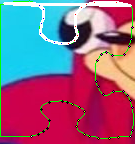
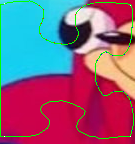
ajout seconde méthode

diff --git a/findangles.py b/findangles.py
@@ -7,7 +7,6 @@ import os
 
 def distpp(p1, p2):
     '''Méthode rendant la distance entre les deux points entrés en paramètres'''
-    #return (p1[0] - p2[0]) * (p1[0] - p2[0]) + (p1[1] - p2[1]) * (p1[1] - p2[1])
     return math.hypot(p2[0] - p1[0], p2[1] - p1[1])
 
 
@@ -21,11 +20,12 @@ def findangle(datas, w, h, qdens):
     #Variables du second test
     atangle = 0
     # il est possible de rajouter facilement un point de contrôle supplémentaire.
-    angle1 = [c1, [datas[0], distpp(c1, datas[0])], [datas[0], distpp(c1, datas[0])]]
-    angle2 = [c2, [datas[0], distpp(c2, datas[0])], [datas[0], distpp(c2, datas[0])]]
-    angle3 = [c3, [datas[0], distpp(c3, datas[0])], [datas[0], distpp(c3, datas[0])]]
-    angle4 = [c4, [datas[0], distpp(c4, datas[0])], [datas[0], distpp(c4, datas[0])]]
+    angle1 = [c1, [datas[0], distpp(c1, datas[0])], [datas[0], distpp(c1, datas[0])], [datas[0], distpp(c1, datas[0])]]
+    angle2 = [c2, [datas[0], distpp(c2, datas[0])], [datas[0], distpp(c2, datas[0])], [datas[0], distpp(c2, datas[0])]]
+    angle3 = [c3, [datas[0], distpp(c3, datas[0])], [datas[0], distpp(c3, datas[0])], [datas[0], distpp(c3, datas[0])]]
+    angle4 = [c4, [datas[0], distpp(c4, datas[0])], [datas[0], distpp(c4, datas[0])], [datas[0], distpp(c4, datas[0])]]
     angletest = [angle1, angle2, angle3, angle4]
+    #recherche des points les plus proches des coins de l'image
     for point in datas[1:]:
         for i in angletest:
             temp = distpp(point, i[0])
@@ -35,11 +35,16 @@ def findangle(datas, w, h, qdens):
                 i[1][1] = temp
                 i[1][0] = point
             elif i[2][1] > temp:
+                i[3][1] = i[2][1]
+                i[3][0] = i[2][0]
                 i[2][1] = temp
                 i[2][0] = point
-
+            elif i[3][1] > temp:
+                i[3][1] = temp
+                i[3][0] = point
     for i in angletest:
         angles.append(i[1][0])
+    #vérification de la présence du point dans le cadran
     for d in qdens:
         if d < 1:
             if atangle == 0:
@@ -51,26 +56,109 @@ def findangle(datas, w, h, qdens):
             elif atangle == 3:
                 angles[atangle] = [0, h - 1]
         atangle += 1
+
     return angles
 
 
-''' Tentative d'amélioration de la recherche d'angle
-def checkangles(angles, ):
-    for d in qdens:
-        if d < 1:
-            if i == 0:
-                angles[i] = [0, 0]
-            elif i == 1:
-                angles[i] = [width - 1, 0]
-            elif i == 2:
-                angles[i] = [width - 1, height - 1]
-            elif i == 3:
-                angles[i] = [0, height - 1]
-        i += 1
+def verifangle(angles, qdens, q1, q2, q3, q4):
+    '''Méthode de correction dea angles'''
+    sides = [0, 0, 0, 0]
+    modif = [0, 0, 0, 0]
+    for i in range(4):
+        inext = (i+1)%4
+        if i % 2 == 0:
+            d = 1
+            if angles[inext][d]-10 > angles[i][d] or angles[inext][d]+10 < angles[i][d]:
+                sides[i] += 1
+        else:
+            d = 0
+            if angles[inext][d]-10 > angles[i][d] or angles[inext][d]+10 < angles[i][d]:
+                sides[i] += 1
+    for i in range(4):
+        p = i - 1
+        n = (i + 1) % 4
+        if i == 0:
+            if sides[i] > 0:
+                y = min(angles[i][1], angles[n][1])
+                if sides[p] > 0:
+                    x = min(angles[i][0], angles[p][0])
+                    angles[i] = [x, y]
+                    modif[i] = 1
+                else:
+                    x = angles[i][0]
+                    angles[i] = [x, y]
+                    modif[i] = 1
+            else:
+                y = angles[i][1]
+                if sides[p]>0:
+                    x = min(angles[i][0], angles[p][0])
+                    angles[i] = [x, y]
+                    modif[i] = 1
+        elif i == 1:
+            if sides[i] > 0:
+                x = max(angles[i][0], angles[n][0])
+                if sides[p] > 0:
+                    y = min(angles[i][1], angles[p][1])
+                    angles[i] = [x, y]
+                    modif[i] = 1
+                else:
+                    y = angles[i][1]
+                    angles[i] = [x, y]
+                    modif[i] = 1
+            else:
+                x = angles[i][0]
+                if sides[p] > 0:
+                    y = min(angles[i][1], angles[p][1])
+                    angles[i] = [x, y]
+                    modif[i] = 1
+        elif i == 2:
+            if sides[i] > 0:
+                y = max(angles[i][1], angles[n][1])
+                if sides[p] > 0:
+                    x = max(angles[i][0], angles[p][0])
+                    angles[i] = [x, y]
+                    modif[i] = 1
+                else:
+                    x = angles[i][0]
+                    angles[i] = [x, y]
+                    modif[i] = 1
+            else:
+                y = angles[i][1]
+                if sides[p]>0:
+                    x = max(angles[i][0], angles[p][0])
+                    angles[i] = [x, y]
+                    modif[i] = 1
+        elif i == 3:
+            if sides[i] > 0:
+                x = min(angles[i][0], angles[n][0])
+                if sides[p] > 0:
+                    y = max(angles[i][1], angles[p][1])
+                    angles[i] = [x, y]
+                    modif[i] = 1
+                else:
+                    y = angles[i][1]
+                    angles[i] = [x, y]
+                    modif[i] = 1
+            else:
+                x = angles[i][0]
+                if sides[p] > 0:
+                    y = max(angles[i][1], angles[p][1])
+                    angles[i] = [x, y]
+                    modif[i] = 1
+    if modif[0] == 1:
+        q1.append(angles[0])
+        qdens[0] += 1
+    if modif[1] == 1:
+        q2.append(angles[1])
+        qdens[1] += 1
+    if modif[2] == 1:
+        q3.append(angles[2])
+        qdens[2] += 1
+    if modif[3] == 1:
+        q4.append(angles[3])
+        qdens[3] += 1
 
-
-#def anglefinder(quart, w, h):
-'''
+    return angles, qdens, q1, q2, q3, q4
 
 
 def density(data, w, h):
@@ -100,6 +188,7 @@ def density(data, w, h):
 
 def closest_node(node, nodes):
     '''Méthode permettant de trouver le point d'une liste étant le plus proche du point passé en paramètre.'''
+    #trouver sur internet : https://codereview.stackexchange.com/questions/28207/finding-the-closest-point-to-a-list-of-points
     closest_index = distance.cdist([node], nodes).argmin()
     return nodes[closest_index]
 
@@ -140,16 +229,23 @@ def side_test(datas, angle, nbpoints):
     return d, f, cd, cf
 
 
-def fullside(c1, c2, x, y):
+def fullside(c1, c2, x, y, controlx1, controlx2, controly1, controly2):
     '''Méthode pour relier les coins entre eux afin de former les côtés.'''
     c1a = distpp(c1[0], [x, y])
     c1b = distpp(c1[1], [x, y])
     c2b = distpp(c2[1], [x, y])
     c2a = distpp(c2[0], [x, y])
+
+    cx1 = distpp(c1[0], [controlx1, controly1])
+    cy1 = distpp(c1[1], [controlx1, controly1])
+    cy2 = distpp(c2[1], [controlx2, controly2])
+    cx2 = distpp(c2[0], [controlx2, controly2])
+    #inversion des fins des côtés
     c2p1 = c2[2]
     c2p1.reverse()
     c2p2 = c2[3]
     c2p2.reverse()
+    #test pour assembler les côtés
     if c1a < c1b:
         if c2a <= c2b:
             return c1[2] + c2p1
@@ -167,7 +263,6 @@ def working(path):
     img = cv2.imread("img/"+path)
     imgRGB = cv2.imread("img/"+path,cv2.IMREAD_UNCHANGED)
     channels = cv2.split(imgRGB)
-    imgray = cv2.cvtColor(imgRGB, cv2.COLOR_BGR2GRAY)
     if imgRGB is None:
         print("erreur ouverture fichier")
     #obtention des contours en passant par l'image du canal alpha
@@ -179,45 +274,33 @@ def working(path):
     #obtention des coins de la pièce avec la méthode des bon traits à relever
     corners = cv2.goodFeaturesToTrack(gray, 300, 0.01, 5)
     corners = np.int0(corners)
+    #simplification de la série de données
     data = []
     for corner in corners:
         x, y = corner.ravel()
         data.append([x,y])
-        cv2.circle(img, (x, y), 1, 1, -1)
     #acquisition des valeurs nécessaires à l'étude des pièces
     height, width = img.shape[:2]
     qdens, q1, q2, q3, q4 = density(data, width, height)
     angles = findangle(data, width, height, qdens)
+    #vérification de la position des angles
+    angles, qdens, q1, q2, q3, q4 = verifangle(angles,qdens, q1, q2, q3, q4)
     #mise en place des coins
     corner1 = side_test(q1, angles[0], qdens[0])
     corner2 = side_test(q2, angles[1], qdens[1])
     corner3 = side_test(q3, angles[2], qdens[2])
     corner4 = side_test(q4, angles[3], qdens[3])
-    side1 = fullside(corner1, corner2, width/2, 0)
-    side2 = fullside(corner2, corner3, width, height/2)
-    side3 = fullside(corner3, corner4, width/2, height)
-    side4 = fullside(corner4, corner1, 0, height/2)
-
+    side1 = fullside(corner1, corner2, width/2, 0, 0, width, height/2, height/2)
+    side2 = fullside(corner2, corner3, width, height/2, width/2, width/2, 0, height)
+    side3 = fullside(corner3, corner4, width/2, height, width, 0, height/2, height/2)
+    side4 = fullside(corner4, corner1, 0, height/2, width/2, width/2, height, 0)
     #dessin corner1
     posx, posy = zip(*side1)
     img[posy[:], posx[:]] = [0,0,255]
-    '''posx, posy = zip(*corner1[3])
+    posx, posy = zip(*side2)
     img[posy[:], posx[:]] = [255,0,0]
-    #dessin corner2
-    posx, posy = zip(*corner2[2])
-    img[posy[:], posx[:]] = [0,255,0]
-    posx, posy = zip(*corner2[3])
-    img[posy[:], posx[:]] = [255,0,0]
-    #dessin corner3
-    posx, posy = zip(*corner3[2])
-    img[posy[:], posx[:]] = [0,255,0]
-    posx, posy = zip(*corner3[3])
-    img[posy[:], posx[:]] = [255,0,0]
-    #dessin corner4
-    posx, posy = zip(*corner4[2])
-    img[posy[:], posx[:]] = [0,255,0]
-    posx, posy = zip(*corner4[3])
-    img[posy[:], posx[:]] = [255,0,0]'''
+
+
     #dessin angles
     posx, posy = zip(*angles)
     img[posy[:], posx[:]] = [255,255,255]
